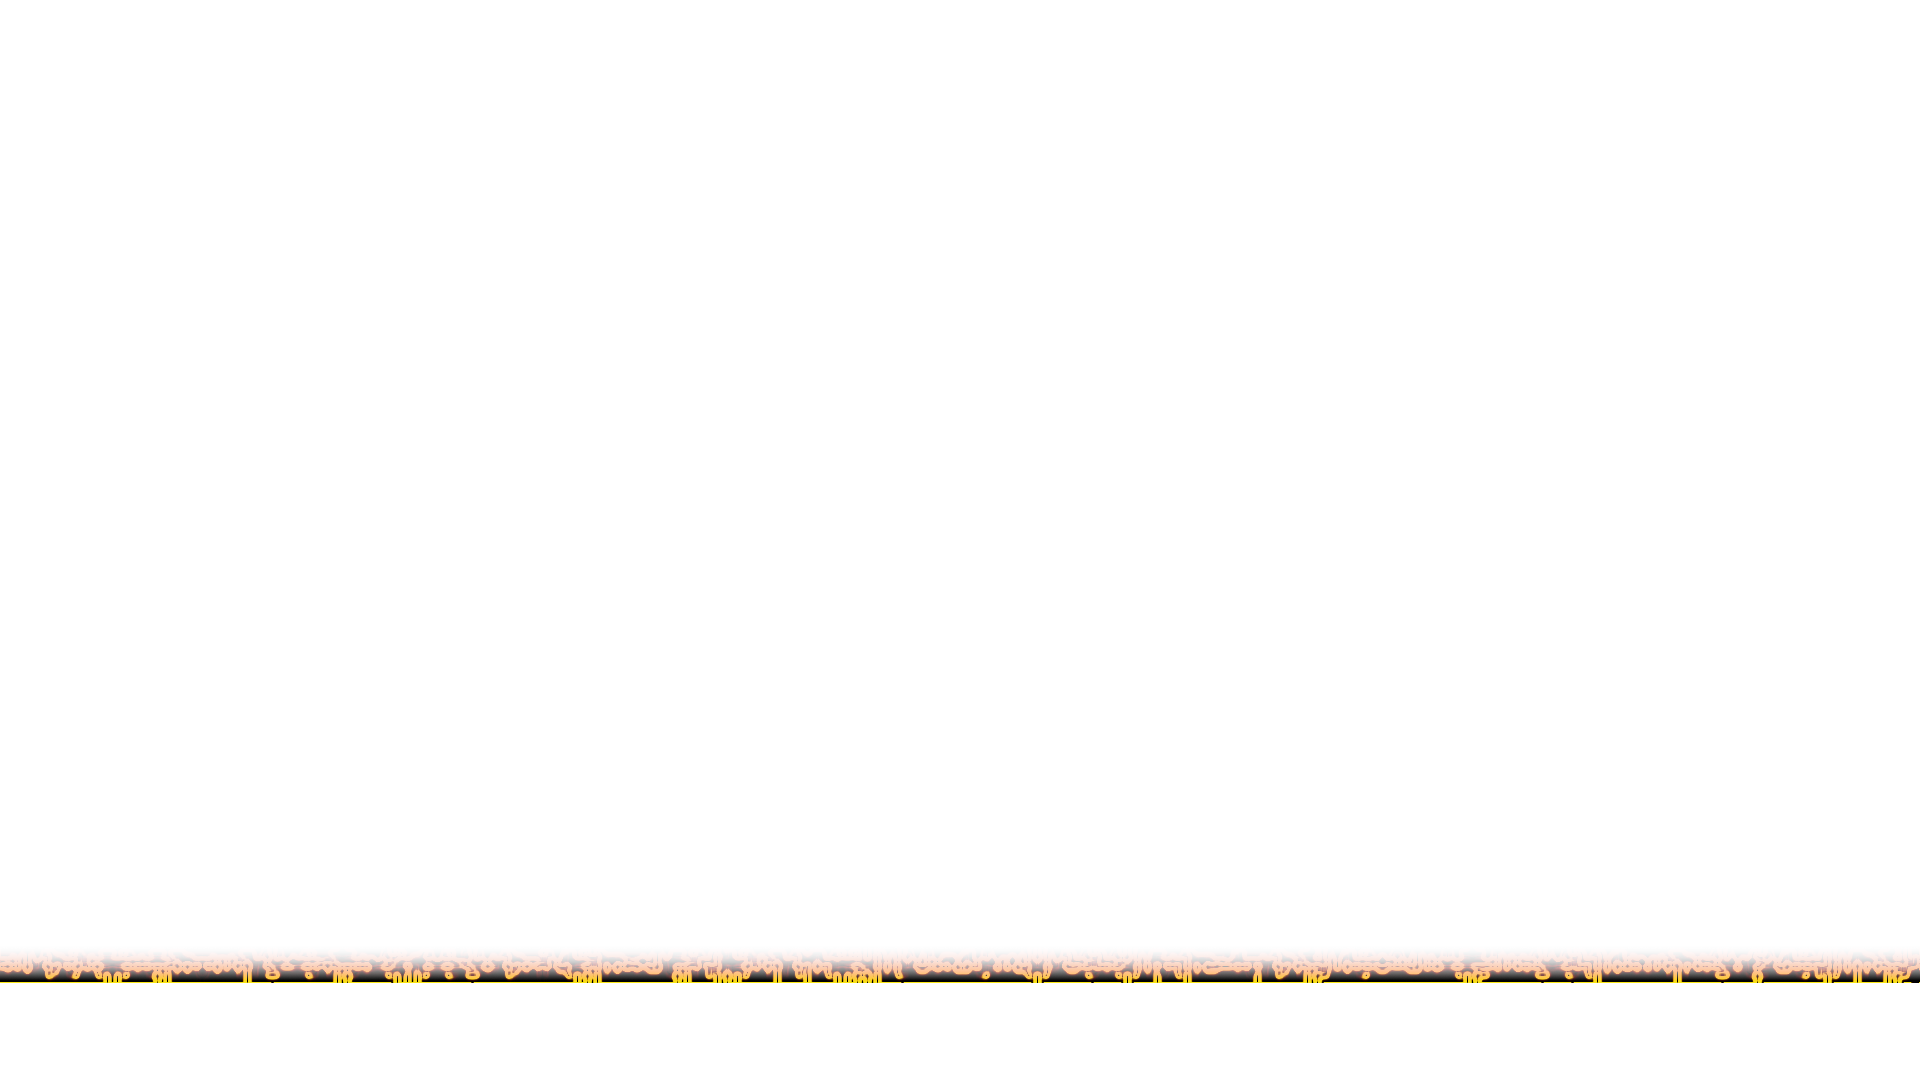
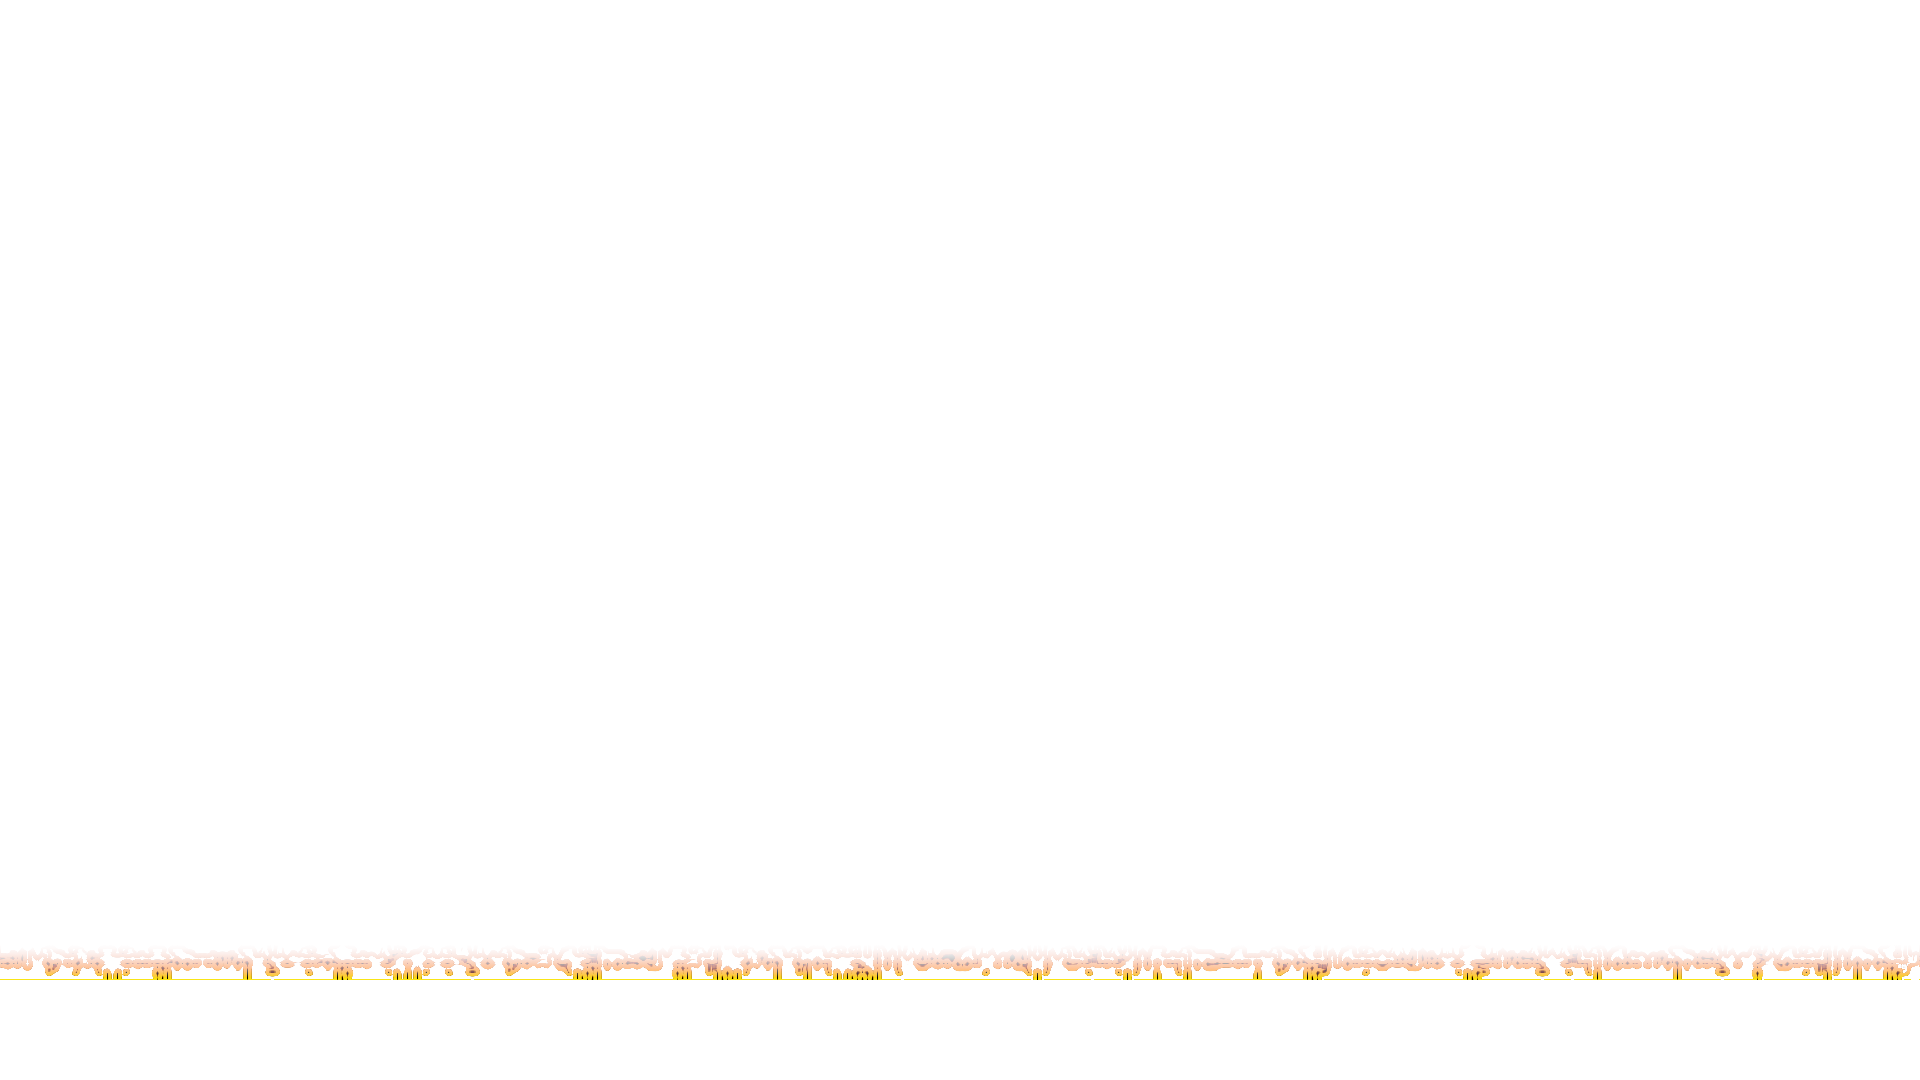
fixed the target scaling on GameTextures, added a PlayerInfo func to clear the buffer, minor touchups to the loading texture and properly positioned the ex textures

Changed region(s): [[0.0, 0.8861, 1.0, 0.9167]]

diff --git a/ChampionFightingGame/GameTexture.cpp b/ChampionFightingGame/GameTexture.cpp
@@ -454,7 +454,7 @@ void GameTexture::set_left_target(float percent, float frames) {
 	if (percent < 0.0 || frames <= 0.0) {
 		return;
 	}
-	this->target_left_crop = percent / frames;
+	this->target_left_crop = percent;
 	this->target_left_frames = frames;
 }
 
@@ -462,7 +462,7 @@ void GameTexture::set_right_target(float percent, float frames) {
 	if (percent < 0.0 || frames <= 0.0) {
 		return;
 	}
-	this->target_right_crop = percent / frames;
+	this->target_right_crop = percent;
 	this->target_right_frames = frames;
 }
 
@@ -470,7 +470,7 @@ void GameTexture::set_top_target(float percent, float frames) {
 	if (percent < 0.0 || frames <= 0.0) {
 		return;
 	}
-	this->target_top_crop = percent / frames;
+	this->target_top_crop = percent;
 	this->target_top_frames = frames;
 }
 
@@ -478,7 +478,7 @@ void GameTexture::set_bottom_target(float percent, float frames) {
 	if (percent < 0.0 || frames <= 0.0) {
 		return;
 	}
-	this->target_bottom_crop = percent / frames;
+	this->target_bottom_crop = percent;
 	this->target_bottom_frames = frames;
 }
 
@@ -554,47 +554,99 @@ void GameTexture::process() {
 	float width_scale = (float)width / (float)WINDOW_WIDTH;
 	float height_scale = (float)height / (float)WINDOW_HEIGHT;
 	if (target_bottom_frames != 0.0) {
-		if (target_bottom_crop * height_scale * -1.0 > tex_accessor[TEX_COORD_BOTTOM_LEFT]->pos.y) {
-			scale_bottom_percent(tex_accessor[TEX_COORD_BOTTOM_LEFT]->tex_coord.y + target_bottom_crop);
-		}
-		else if (target_bottom_crop * height_scale * -1.0 < tex_accessor[TEX_COORD_BOTTOM_LEFT]->pos.y) {
-			scale_bottom_percent(tex_accessor[TEX_COORD_BOTTOM_LEFT]->tex_coord.y - target_bottom_crop);
+		if (v_flipped) {
+			if (target_bottom_crop > tex_accessor[TEX_COORD_TOP_LEFT]->tex_coord.y) {
+				scale_bottom_percent(clampf(0.0, tex_accessor[TEX_COORD_TOP_LEFT]->tex_coord.y + (target_bottom_crop / target_bottom_frames), target_bottom_crop));
+			}
+			else if (target_bottom_crop < tex_accessor[TEX_COORD_TOP_LEFT]->tex_coord.y) {
+				scale_bottom_percent(clampf(target_bottom_crop, tex_accessor[TEX_COORD_TOP_LEFT]->tex_coord.y - (target_bottom_crop / target_bottom_frames), 1.0));
+			}
+			else {
+				target_bottom_frames = 0.0;
+			}
 		}
 		else {
-			target_bottom_frames = 0.0;
+			if (target_bottom_crop > tex_accessor[TEX_COORD_BOTTOM_LEFT]->tex_coord.y) {
+				scale_bottom_percent(clampf(0.0, tex_accessor[TEX_COORD_BOTTOM_LEFT]->tex_coord.y + (target_bottom_crop / target_bottom_frames), target_bottom_crop));
+			}
+			else if (target_bottom_crop < tex_accessor[TEX_COORD_BOTTOM_LEFT]->tex_coord.y) {
+				scale_bottom_percent(clampf(target_bottom_crop, tex_accessor[TEX_COORD_BOTTOM_LEFT]->tex_coord.y - (target_bottom_crop / target_bottom_frames), 1.0));
+			}
+			else {
+				target_bottom_frames = 0.0;
+			}
 		}
 	}
 	if (target_top_frames != 0.0) {
-		if (target_top_crop * height_scale > tex_accessor[TEX_COORD_TOP_LEFT]->pos.y) {
-			scale_top_percent(tex_accessor[TEX_COORD_TOP_LEFT]->tex_coord.y + target_top_crop);
-		}
-		else if (target_top_crop * height_scale < tex_accessor[TEX_COORD_TOP_LEFT]->pos.y) {
-			scale_top_percent(tex_accessor[TEX_COORD_TOP_LEFT]->tex_coord.y - target_top_crop);
+		if (v_flipped) {
+			if (target_top_crop > tex_accessor[TEX_COORD_BOTTOM_LEFT]->tex_coord.y) {
+				scale_top_percent(clampf(0.0, tex_accessor[TEX_COORD_BOTTOM_LEFT]->tex_coord.y + (target_top_crop / target_top_frames), target_top_crop));
+			}
+			else if (target_top_crop < tex_accessor[TEX_COORD_BOTTOM_LEFT]->tex_coord.y) {
+				scale_top_percent(clampf(target_top_crop, tex_accessor[TEX_COORD_BOTTOM_LEFT]->tex_coord.y - (target_top_crop / target_top_frames), 1.0));
+			}
+			else {
+				target_top_frames = 0.0;
+			}
 		}
 		else {
-			target_top_frames = 0.0;
+			if (target_top_crop > tex_accessor[TEX_COORD_TOP_LEFT]->tex_coord.y) {
+				scale_top_percent(clampf(0.0, tex_accessor[TEX_COORD_TOP_LEFT]->tex_coord.y + (target_top_crop / target_top_frames), target_top_crop));
+			}
+			else if (target_top_crop < tex_accessor[TEX_COORD_TOP_LEFT]->tex_coord.y) {
+				scale_top_percent(clampf(target_top_crop, tex_accessor[TEX_COORD_TOP_LEFT]->tex_coord.y - (target_top_crop / target_top_frames), 1.0));
+			}
+			else {
+				target_top_frames = 0.0;
+			}
 		}
 	}
 	if (target_left_frames != 0.0) {
-		if (target_left_crop * width_scale * -1.0 > tex_accessor[TEX_COORD_BOTTOM_LEFT]->pos.x) {
-			scale_left_percent(tex_accessor[TEX_COORD_BOTTOM_LEFT]->tex_coord.x + target_left_crop);
-		}
-		else if (target_left_crop * width_scale * -1.0 < tex_accessor[TEX_COORD_BOTTOM_LEFT]->pos.x) {
-			scale_left_percent(tex_accessor[TEX_COORD_BOTTOM_LEFT]->tex_coord.x - target_left_crop);
+		if (h_flipped) {
+			if (target_left_crop > tex_accessor[TEX_COORD_BOTTOM_RIGHT]->tex_coord.x) {
+				scale_left_percent(clampf(0.0, tex_accessor[TEX_COORD_BOTTOM_RIGHT]->tex_coord.x + (target_left_crop / target_left_frames), target_left_crop));
+			}
+			else if (target_left_crop < tex_accessor[TEX_COORD_BOTTOM_RIGHT]->tex_coord.x) {
+				scale_left_percent(clampf(target_left_crop, tex_accessor[TEX_COORD_BOTTOM_RIGHT]->tex_coord.x - (target_left_crop / target_left_frames), 1.0));
+			}
+			else {
+				target_left_frames = 0.0;
+			}
 		}
 		else {
-			target_left_frames = 0.0;
+			if (target_left_crop > tex_accessor[TEX_COORD_BOTTOM_LEFT]->tex_coord.x) {
+				scale_left_percent(clampf(0.0, tex_accessor[TEX_COORD_BOTTOM_LEFT]->tex_coord.x + (target_left_crop / target_left_frames), target_left_crop));
+			}
+			else if (target_left_crop < tex_accessor[TEX_COORD_BOTTOM_LEFT]->tex_coord.x) {
+				scale_left_percent(clampf(target_left_crop, tex_accessor[TEX_COORD_BOTTOM_LEFT]->tex_coord.x - (target_left_crop / target_left_frames), 1.0));
+			}
+			else {
+				target_left_frames = 0.0;
+			}
 		}
 	}
 	if (target_right_frames != 0.0) {
-		if (target_right_crop * width_scale > tex_accessor[TEX_COORD_BOTTOM_RIGHT]->pos.x) {
-			scale_right_percent(tex_accessor[TEX_COORD_BOTTOM_RIGHT]->tex_coord.x + target_right_crop);
-		}
-		else if (target_right_crop * width_scale < tex_accessor[TEX_COORD_BOTTOM_RIGHT]->pos.x) {
-			scale_right_percent(tex_accessor[TEX_COORD_BOTTOM_RIGHT]->tex_coord.x - target_right_crop);
+		if (h_flipped) {
+			if (target_right_crop > tex_accessor[TEX_COORD_BOTTOM_LEFT]->tex_coord.x) {
+				scale_right_percent(clampf(0.0, tex_accessor[TEX_COORD_BOTTOM_LEFT]->tex_coord.x + (target_right_crop / target_right_frames), target_right_crop));
+			}
+			else if (target_right_crop < tex_accessor[TEX_COORD_BOTTOM_LEFT]->tex_coord.x) {
+				scale_right_percent(clampf(target_right_crop, tex_accessor[TEX_COORD_BOTTOM_LEFT]->tex_coord.x - (target_right_crop / target_right_frames), 1.0));
+			}
+			else {
+				target_right_frames = 0.0;
+			}
 		}
 		else {
-			target_right_frames = 0.0;
+			if (target_right_crop > tex_accessor[TEX_COORD_BOTTOM_RIGHT]->tex_coord.x) {
+				scale_right_percent(clampf(0.0, tex_accessor[TEX_COORD_BOTTOM_RIGHT]->tex_coord.x + (target_right_crop / target_right_frames), target_right_crop));
+			}
+			else if (target_right_crop < tex_accessor[TEX_COORD_BOTTOM_RIGHT]->tex_coord.x) {
+				scale_right_percent(clampf(target_right_crop, tex_accessor[TEX_COORD_BOTTOM_RIGHT]->tex_coord.x - (target_right_crop / target_right_frames), 1.0));
+			}
+			else {
+				target_right_frames = 0.0;
+			}
 		}
 	}
 	if (target_pos_frames != vec3(0.0)) {

diff --git a/ChampionFightingGame/Battle.cpp b/ChampionFightingGame/Battle.cpp
@@ -1235,10 +1235,10 @@ void ExBar::init(Fighter* fighter) {
 	ex = &fighter->fighter_float[FIGHTER_FLOAT_SUPER_METER];
 	max_ex = EX_METER_SIZE;
 	ex_texture.init("resource/ui/game/ex/ex.png");
-
 	ex_segment_texture.init("resource/ui/game/ex/ex_segment.png");
-
 	bar_texture.init("resource/ui/game/ex/bar.png");
+	ex_texture.set_pos(vec3(119.0, 60.0, 0.0));
+	ex_segment_texture.set_pos(vec3(119.0, 60.0, 0.0));
 
 	if (fighter->id == 0) {
 		ex_texture.set_orientation(GAME_TEXTURE_ORIENTATION_BOTTOM_LEFT);
@@ -1269,10 +1269,10 @@ void ExBar::process() {
 	int segments = floor(*ex / (max_ex / EX_METER_BARS));
 	if (prev_segments != segments) {
 		if (prev_segments > segments) {
-			ex_segment_texture.set_right_target((*ex / EX_METER_BARS) / (max_ex / segments), 6);
+			ex_segment_texture.set_right_target((*ex / EX_METER_BARS) / (max_ex / segments), 1);
 		}
 		else if (!(segments % 2)) {
-			ex_segment_texture.set_right_target((max_ex / EX_METER_BARS) / (max_ex / segments), 2);
+			ex_segment_texture.set_right_target((max_ex / EX_METER_BARS) / (max_ex / segments), 1);
 		}
 	}
 	prev_segments = segments;

diff --git a/ChampionFightingGame/PlayerInfo.cpp b/ChampionFightingGame/PlayerInfo.cpp
@@ -97,6 +97,12 @@ void PlayerInfo::poll_buttons(const Uint8* keyboard_state) {
 	}
 }
 
+void PlayerInfo::reset_buffer() {
+	for (int i = 0; i < BUTTON_MAX; i++) {
+		button_info[i].buffer = 0;
+	}
+}
+
 void PlayerInfo::set_default_button_mappings(int id) {
 	if (id == 0) {
 		button_info[BUTTON_UP].mapping = SDL_SCANCODE_W;

diff --git a/ChampionFightingGame/FighterAnimationFunctions.cpp b/ChampionFightingGame/FighterAnimationFunctions.cpp
@@ -57,6 +57,7 @@ bool Fighter::change_anim_inherit_attributes(string animation_name, bool verbose
 }
 
 void Fighter::startAnimation(Animation* animation) {
+	player_info->reset_buffer();
 	is_anim_end = false;
 	if (anim_kind != animation) {
 		prev_anim_kind = anim_kind;

diff --git a/ChampionFightingGame/Loader.cpp b/ChampionFightingGame/Loader.cpp
@@ -8,6 +8,7 @@ bool GameTextureSDL::init(string sTexturePath, bool delay) {
 
 	bIsInitialized = true;
 	pTexture = loadSDLTexture(sTexturePath.c_str(), delay);
+	SDL_SetTextureBlendMode(pTexture, SDL_BLENDMODE_BLEND);
 	destRect.x = 0;
 	destRect.y = 0;
 	srcRect.x = 0;

diff --git a/ChampionFightingGame/PlayerInfo.h b/ChampionFightingGame/PlayerInfo.h
@@ -20,6 +20,7 @@ public:
 	PlayerInfo(int id);
 
 	void poll_buttons(const Uint8* keyboard_state);
+	void reset_buffer();
 	void check_controllers();
 	void set_default_button_mappings(int id);
 	bool check_button_on(u32 button);
